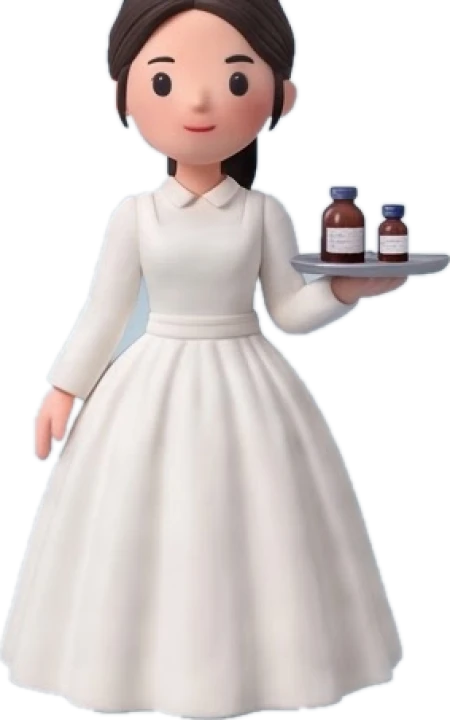
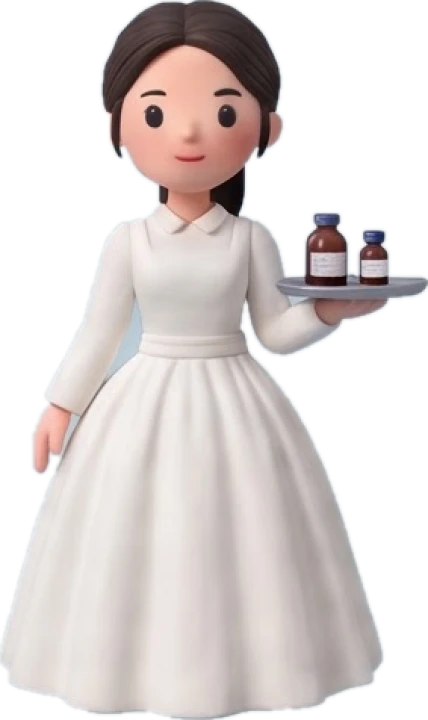
Fix Bella walker sprite head crop
Claude-Session: https://claude.ai/code/session_01JBjZjVyCLTEV66G3vMSPRi

diff --git a/public/island/index.html b/public/island/index.html
@@ -327,7 +327,7 @@ const sc=document.getElementById('sc'),ctr=()=>{sc.scrollLeft=(sc.scrollWidth-sc
 (function(){const svgEl=document.getElementById('dogs');if(!svgEl)return;
  const K=1,P=(a)=>a.map(([x,y])=>[x*K,y*K]);
  const WALK=[
-  {id:'lulu',img:'/island/palace/walk_bella.webp',ar:0.625,path:P([[1110,1050],[1260,1085],[1400,1040]]),speed:20},
+  {id:'lulu',img:'/island/palace/walk_bella.webp?v=2',ar:0.5944,path:P([[1110,1050],[1260,1085],[1400,1040]]),speed:20},
   {id:'ashan',img:'/island/palace/walk_zhan.webp',ar:0.5111,path:P([[1440,870],[1480,950],[1420,1030]]),speed:24}];
  const DOGS=[
   {id:'shiba',name:'柴柴',fur:'#E39A52',fur2:'#C97A35',belly:'#FFF3E2',path:P([[1440,870],[1480,950],[1420,1030]]),speed:24,follow:'ashan',lag:70,lines:['汪！（柴柴想找你玩）','汪汪！（尾巴搖不停）','（柴柴躲到陽傘下，牠也知道要防曬）']},

diff --git a/public/island/forest/index.html b/public/island/forest/index.html
@@ -224,7 +224,7 @@ const sc=document.getElementById('sc'),ctr=()=>{sc.scrollLeft=(sc.scrollWidth-sc
  const K=1.2,P=(a)=>a.map(([x,y])=>[x*K,y*K]);
  const WALK=[
   {id:'xiaoxiang',img:'walk_shiqing.webp',ar:0.5264,path:P([[470,805],[560,792],[650,805]]),speed:20},
-  {id:'lulu',img:'walk_bella.webp',ar:0.625,path:P([[700,772],[800,760],[905,778]]),speed:20},
+  {id:'lulu',img:'walk_bella.webp?v=2',ar:0.5944,path:P([[700,772],[800,760],[905,778]]),speed:20},
   {id:'ashan',img:'walk_zhan.webp',ar:0.5111,path:P([[700,848],[820,840],[950,822]]),speed:24},
   {id:'meimei',img:'walk_miqin.webp',ar:0.5194,path:P([[1020,650],[1085,610],[1150,580]]),speed:16}];
  const DOGS=[
